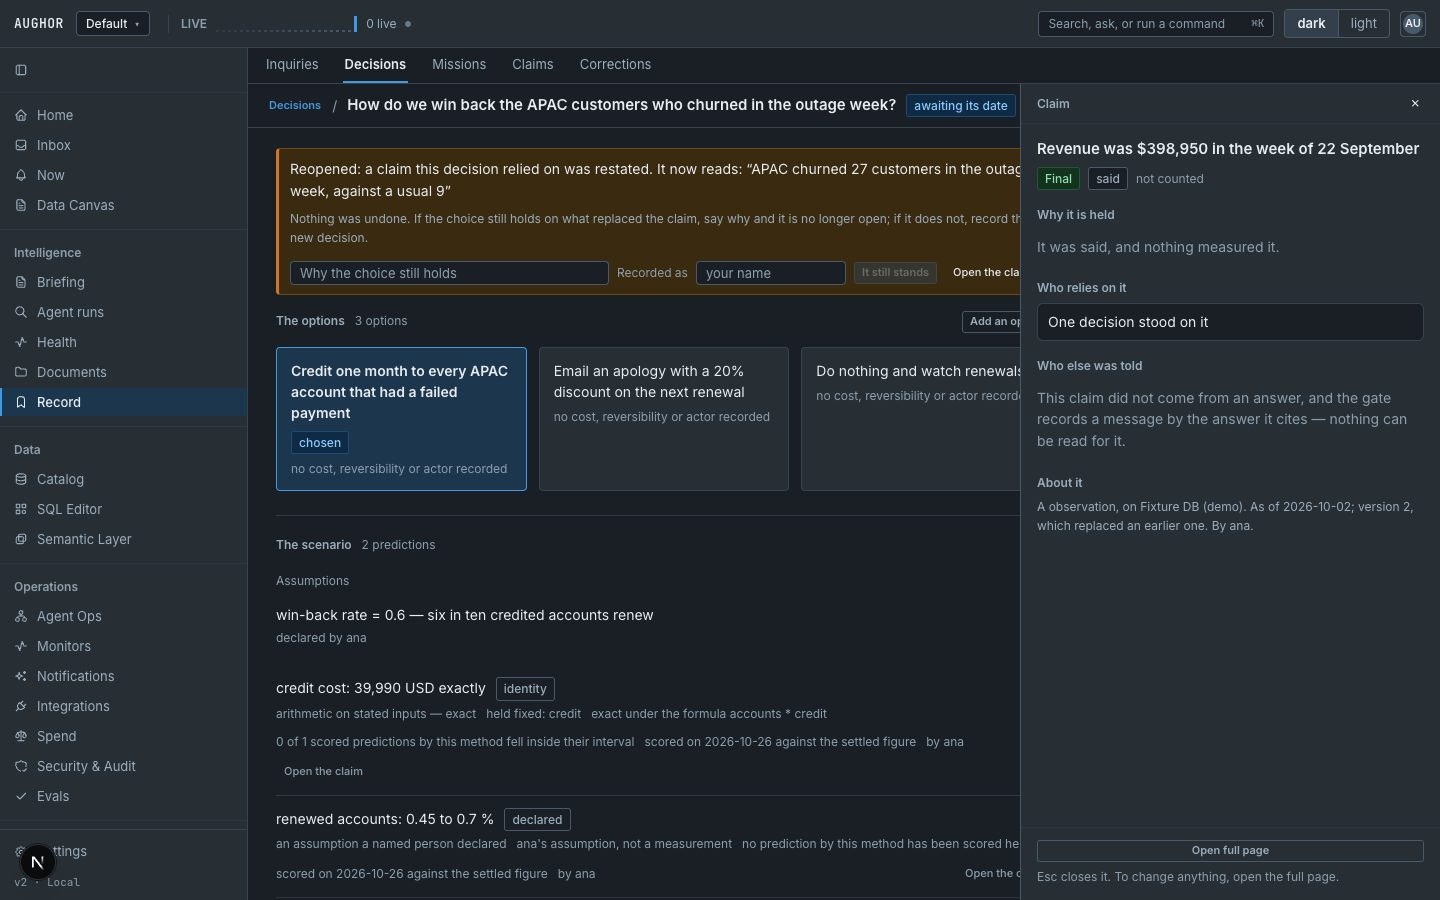
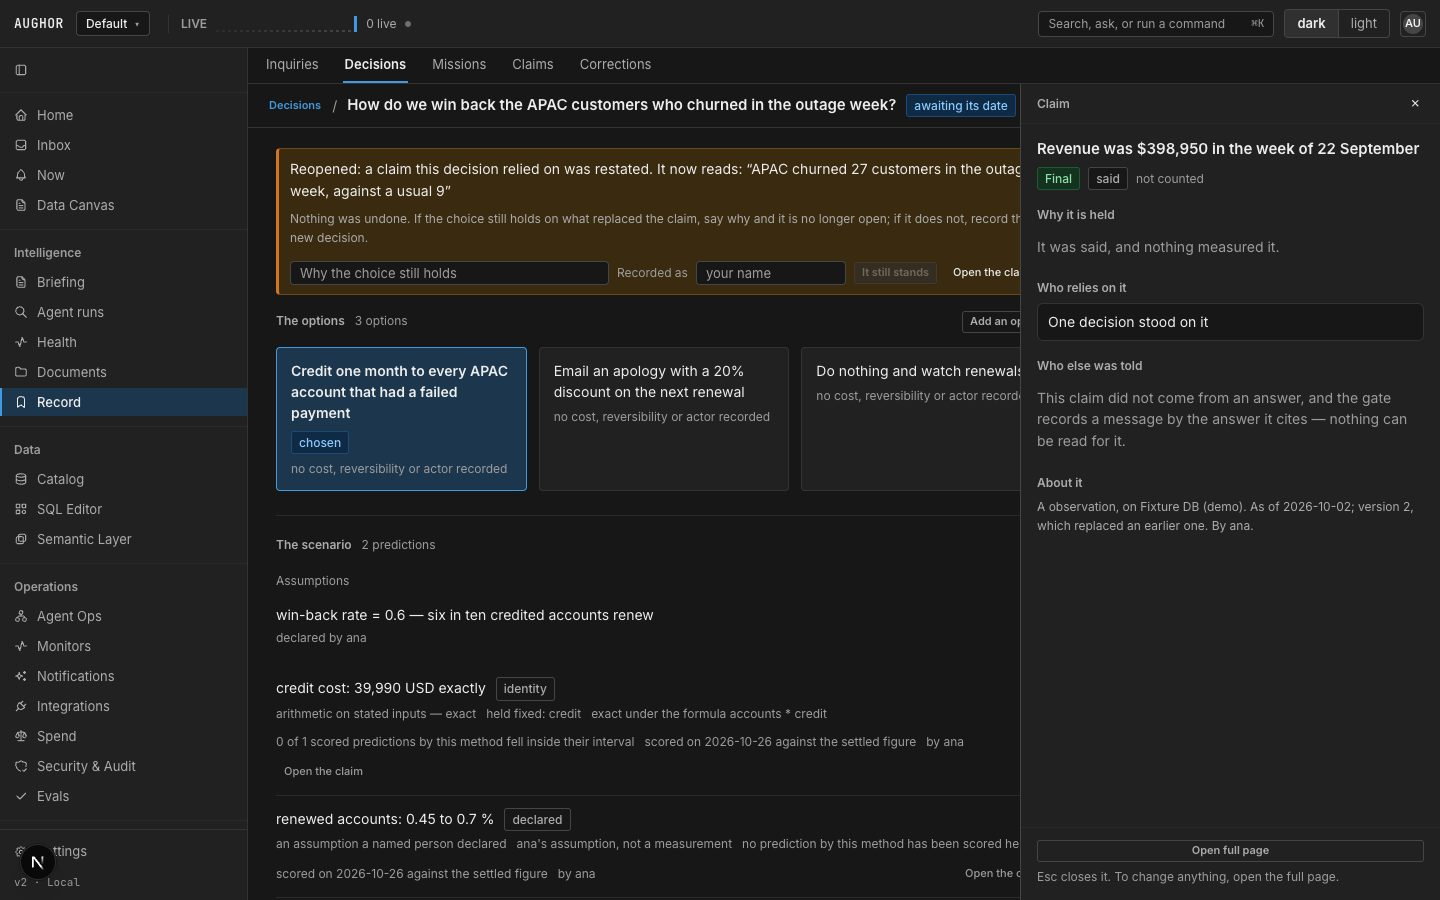
ROADMAP §6 item 41: the dark skin's greys decided as charcoal, with what moved, what did not and what it cost
Item 40(d)'s "not decided" is struck and points here. Figure 19 is the
side-by-side the decision was made on; figures 17 and 18 are retaken on the new
skin. PENDING's parked dark-theme-lift line notes the ground it lifted is two
skins back.

diff --git a/ROADMAP.md b/ROADMAP.md
@@ -13554,8 +13554,24 @@ the browser** · **measure the premise before building.**
     as a mock-up BEFORE it was built (§4.10's lesson). The user, on the mock-up: *"I actually liked the colour and
     structure here.. the actual colour, contrast and rounded boxes with clear text.. I think its great for the dark
     theme that we have."* The structure is in the drawer (a labelled part, each cited record a box of its own);
-    the colour was the mock-up tool's own neutral charcoal, not the Du Bois skin — **whether the dark skin moves
-    toward it is NOT decided** and nothing in the tokens changed.
+    the colour was the mock-up tool's own neutral charcoal, not the Du Bois skin — ~~**whether the dark skin moves
+    toward it is NOT decided** and nothing in the tokens changed~~ *decided the same night: item 41.*
+
+41. ✅ **DECIDED 2026-10-05 — the dark skin's greys move to neutral charcoal** (the user, on a side-by-side of three
+    real pages captured in both: *"go with charcoal.. in this same branch.."*). What moved: every surface, line and
+    text grey of the dark skin — page `#171717`, chrome and cards `#212121`, pressed `#303030`, hover `#2A2A2A`, lines
+    `#2A2A2A` · `#333333` · `#454545` · `#6E6E6E`, text `#EDEDED` · `#ABABAB` · `#9C9C9C`, the code well `#111111`,
+    the scrim. What did not: the one blue, the navy selection tint, the six intent ramps, the chart palette and its
+    order, every size and radius, and the whole light skin. It supersedes the 2026-10-04 "+8" lift of the Du Bois
+    greys (#567) — the greys it lifted are gone — and it is the third dark ground in a fortnight, so
+    `web/aughor-v2/theme/tokens-v2.css` carries the note. Measured: text is clearer on every surface (captions on a
+    card 5.87:1, was 4.92:1; on a pressed control 4.81:1, was 3.84:1); `--t3` is one step above the value in the
+    comparison (`#9C9C9C`, not `#9A9A9A`) so a caption on a selected row still clears 4.5:1. Fainter, and shown so
+    in the comparison: the row rule on the page (1.25:1, was 1.39:1) and the step from page to chrome (1.11:1, was
+    1.22:1). `--chart-deemph` keeps its slate cast: it is a series colour, held by the chart gate and baked into the
+    export bundle. The four hand-kept mirrors moved with the tokens (`AugTable`'s fallback, the chart surface, the
+    Vega fallbacks, `INSTRUMENT.md`); the chart palette gate passes on the new surface and both server bundles rebuild
+    byte-identical. Figure 19 is the comparison the decision was made on; figures 17 and 18 are on the new skin.
 
 ---
 

diff --git a/PENDING.md b/PENDING.md
@@ -453,7 +453,7 @@ sits inside it — the place is named on its line.**
 
 ## Unmerged branches (2026-09-23)
 
-- [~] `claude/dark-theme-lift` — the dark-theme contrast lift the user approved live, PLUS the law-8 amendment (no receipts on Slack messages), the quoted-rows guard fix (a product name "6B" read as billions) and the killed-run drain fix; not pushed; identical uncommitted copies sit in the main checkout. *Three of them merged 2026-10-04 · #566, cherry-picked: the law-8 amendment, the quoted-rows guard fix and the killed-run drain fix. Open: the contrast lift itself — it conflicts with the newer design tokens in four files, and porting it is the user's design call.*
+- [~] `claude/dark-theme-lift` — the dark-theme contrast lift the user approved live, PLUS the law-8 amendment (no receipts on Slack messages), the quoted-rows guard fix (a product name "6B" read as billions) and the killed-run drain fix; not pushed; identical uncommitted copies sit in the main checkout. *Three of them merged 2026-10-04 · #566, cherry-picked: the law-8 amendment, the quoted-rows guard fix and the killed-run drain fix. Open: the contrast lift itself — it conflicts with the newer design tokens in four files, and porting it is the user's design call.* *2026-10-05: the dark skin's greys moved to neutral charcoal at the user's word (ROADMAP §6 item 41, on `claude/platform-2027-doors`) — a different ground from the one this branch lifted; whether anything of it is still wanted is the user's to say.*
 - [x] `claude/delivery-log-truth` — a disabled trigger now logs `skipped` instead of `failed`; not pushed. *Merged 2026-10-04 · #566, cherry-picked (`b72c6901`).*
 - [x] `claude/remove-vercel-config` — `vercel.json`, `.vercel/` and the Vercel-only entrypoint removed; its commit rode into `claude/pending-top-nine` and merged 2026-09-23 · #545 (`vercel.json` and `api/index.py` are gone on main). The local branch is redundant.
 - [ ] `claude/retire-vercel-platform-tick` — merged as #543; the local branch is redundant and can be deleted. *Measured 2026-09-23: the branch is also still on origin, and its tree matches the #543 squash exactly, so nothing is lost by deleting it; `git push origin --delete` from a cloud session is refused (403, the push credential is scoped to one branch) — delete it from a local checkout or the GitHub branches page.*
